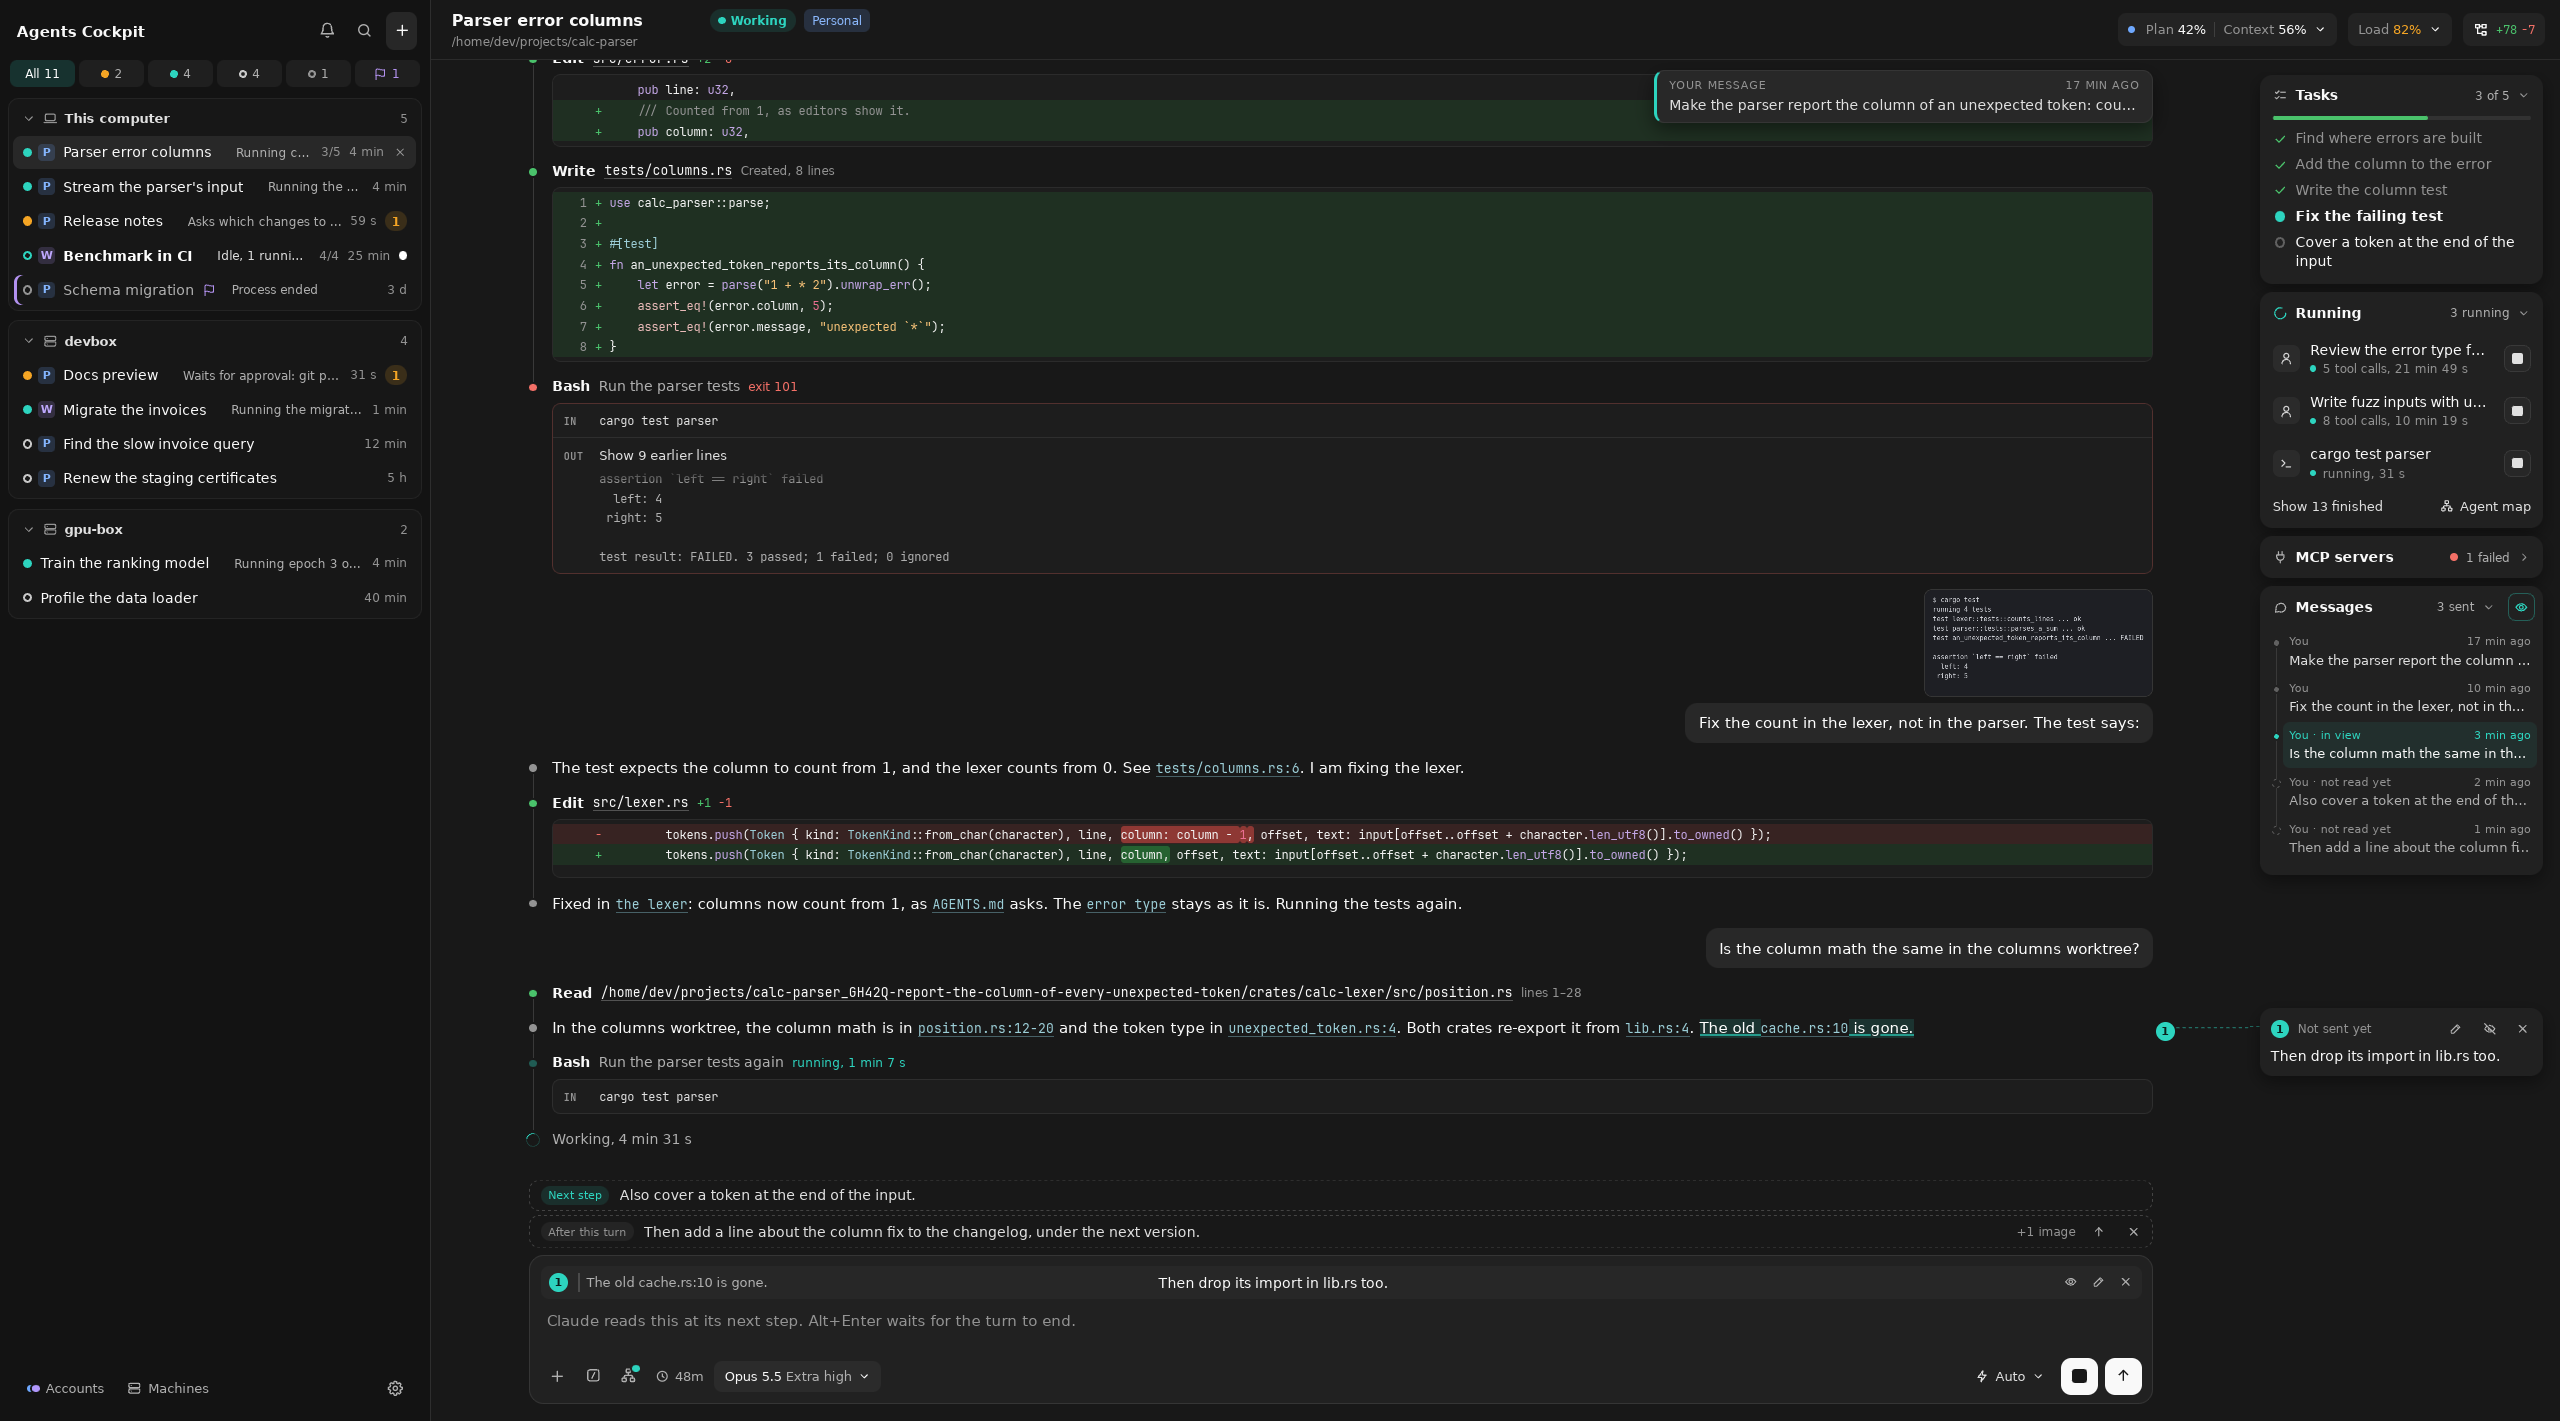
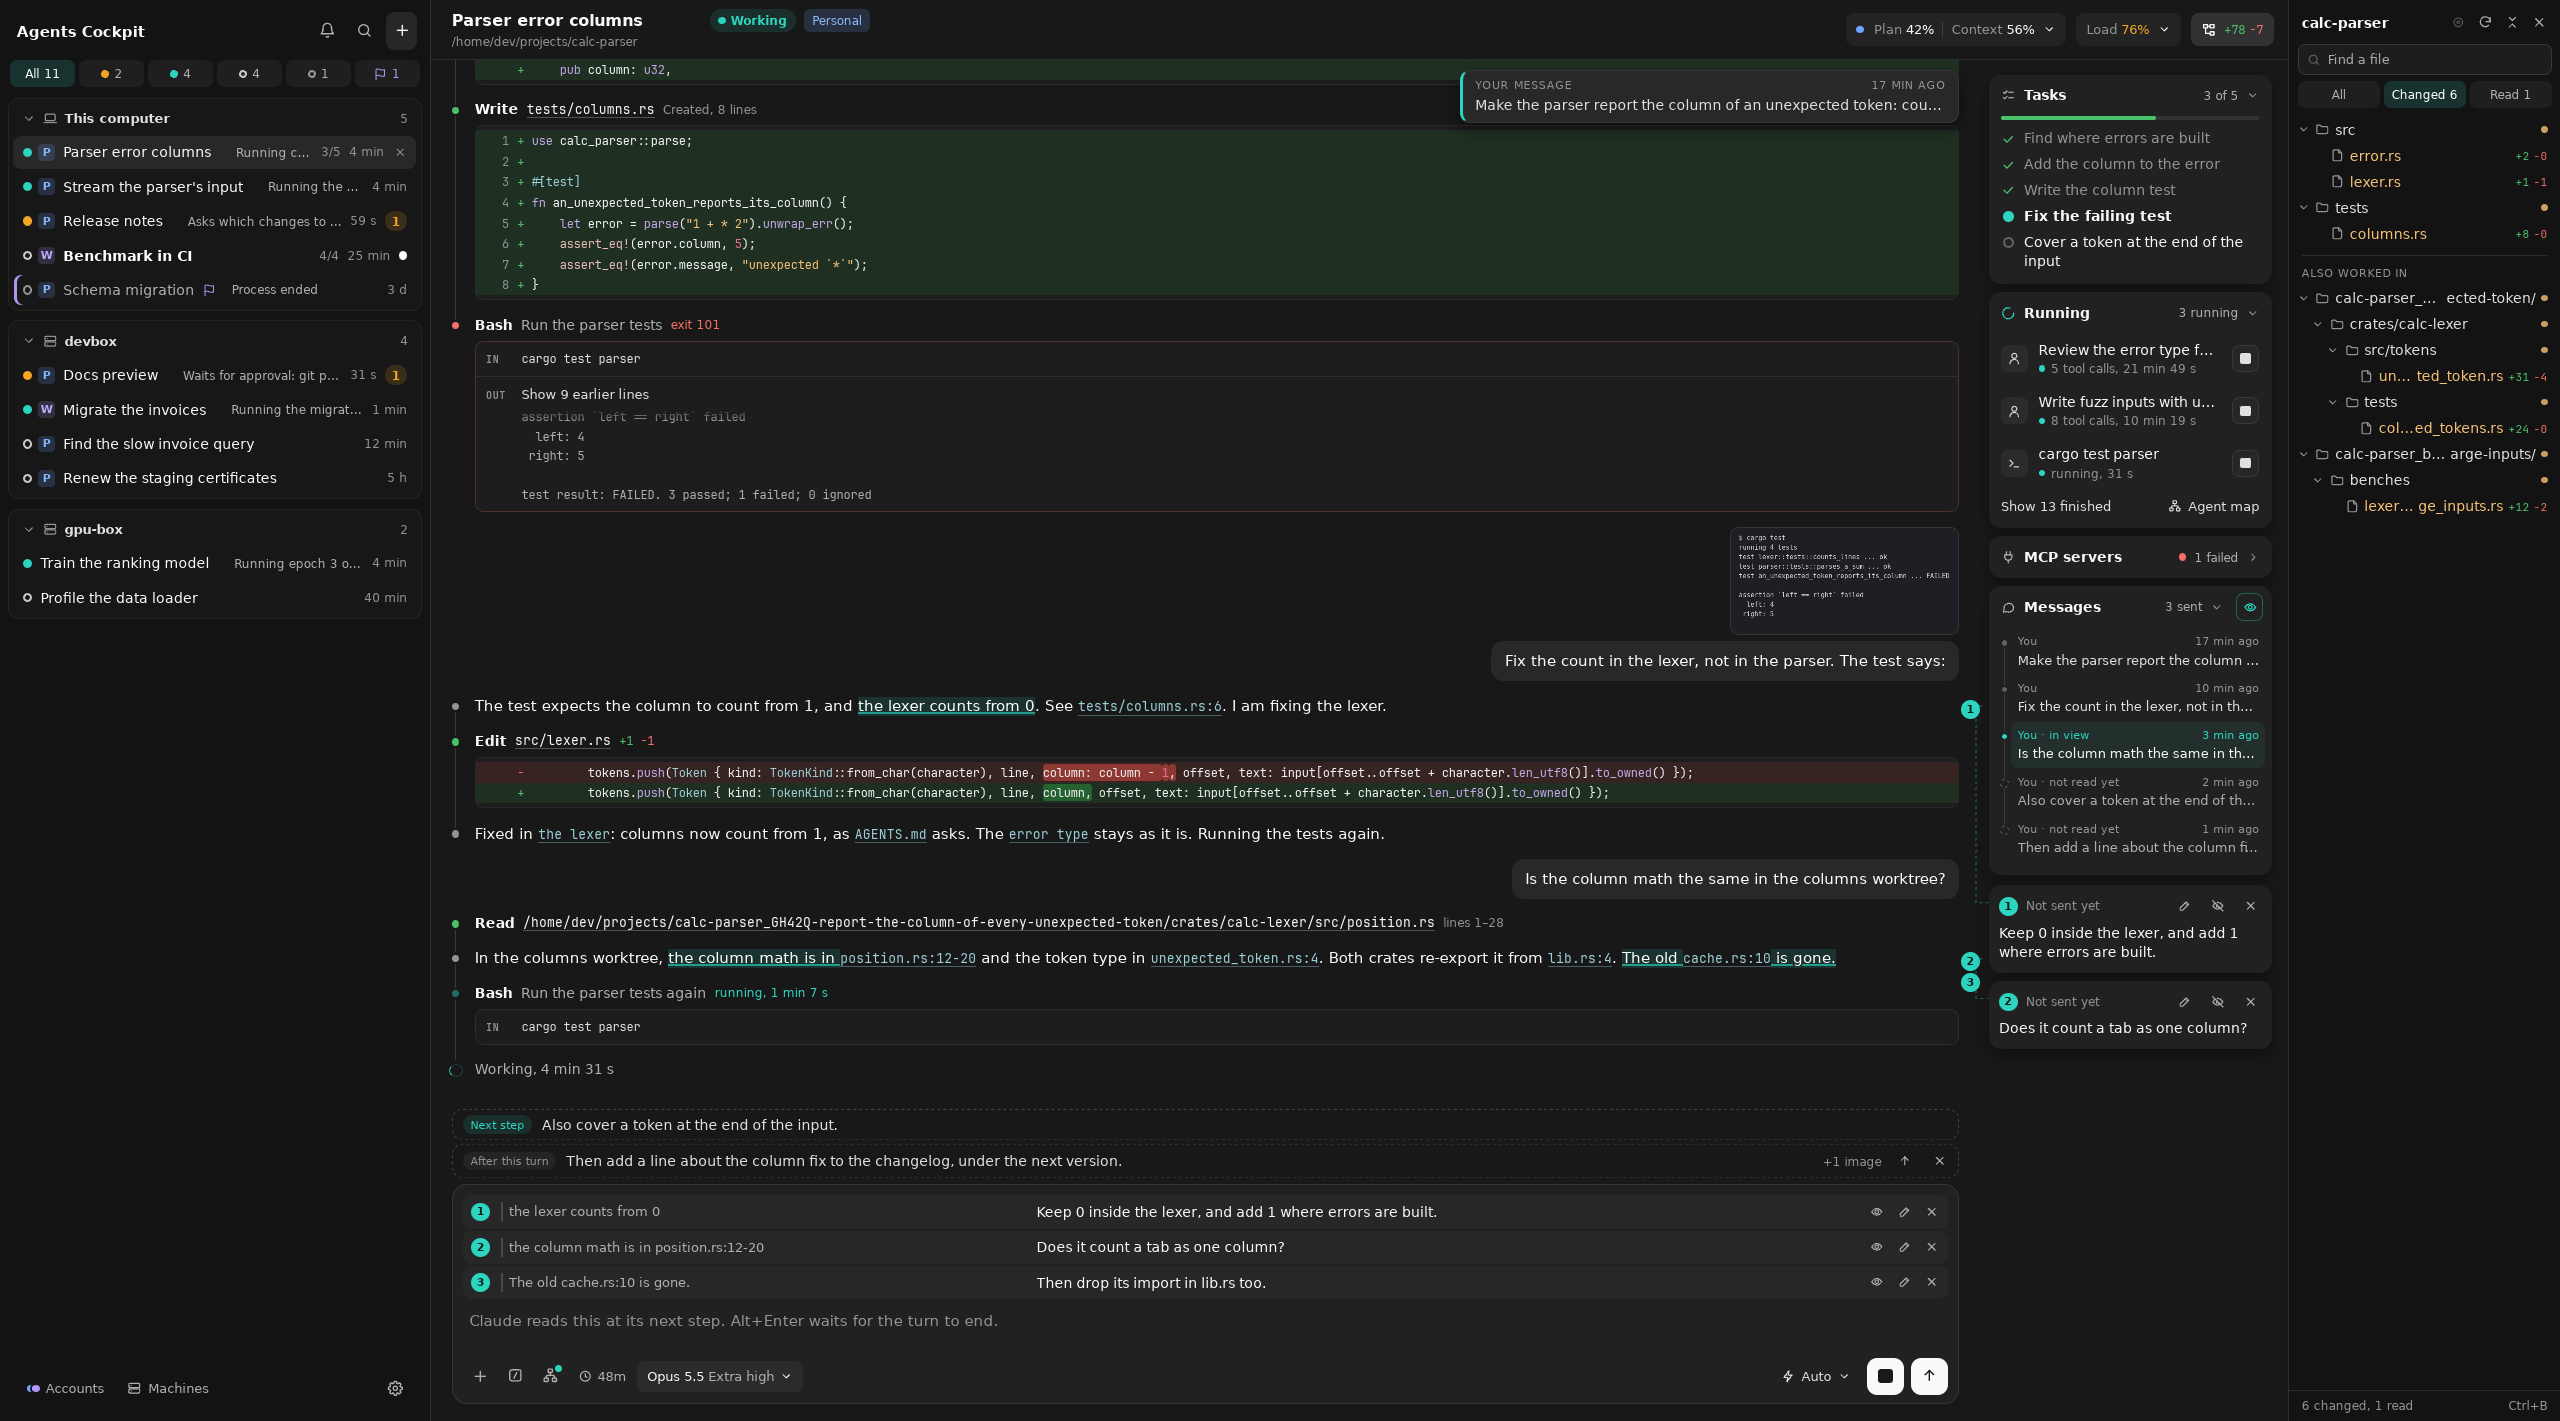
Open the files pane in the showcase, quote three passages in the demo's draft, and leave the benchmark nothing running

diff --git a/crates/cockpit_desktop/src/demo.rs b/crates/cockpit_desktop/src/demo.rs
@@ -34,7 +34,7 @@ use crate::state::daemon_update::{
 use crate::state::no_daemon::{self, Absence};
 use crate::state::{
     AgentEntry, AppState, ConnectionState, Dialog, Drafts, Loadable, MachineState, Utf16Offset,
-    file_edits, quotes, sending,
+    file_edits, file_tree, quotes, sending,
 };
 use crate::update_script::APP_VERSION;
 
@@ -58,6 +58,8 @@ const SHOWCASE_LEFT_OUT: [u32; 3] = [SIGN_IN_AGENT, MAP_AGENT, PLAN_AGENT];
 const APPROVAL_AGENT: u32 = 3;
 /// The agent that waits for its plan to be approved.
 const PLAN_AGENT: u32 = 4;
+/// The agent that finished its benchmark while the user looked elsewhere.
+const BENCHMARK_AGENT: u32 = 5;
 
 const UPDATE_MACHINE: &str = "build-box";
 /// A made-up commit.
@@ -92,7 +94,7 @@ const RUNNING_CALLS_FOR: Duration = Duration::from_secs(48);
 /// A second Claude account, which the service's agents and the platform's past sessions use.
 const WORK_ACCOUNT: u32 = 1;
 /// The agents of the work account.
-const WORK_AGENTS: [u32; 2] = [4, 5];
+const WORK_AGENTS: [u32; 2] = [PLAN_AGENT, BENCHMARK_AGENT];
 /// An account that bills the daemon's API key, which the map's agent uses.
 const LAB_ACCOUNT: u32 = 2;
 /// An account no one signed in to yet, whose agent waits for the sign-in.
@@ -108,10 +110,41 @@ const SERVER: MachineId = MachineId::new(1);
 const SERVER_HOST: &str = "devbox";
 const SERVER_FOLDER: &str = "/home/dev/services/invoices";
 
-/// The selected agent's answer that the demo's draft quotes.
+/// The selected agent's explanation of the failing test, and its last answer.
+const COUNT_ITEM: u32 = 15;
+const COUNT_ANSWER: &str = "The test expects the column to count from 1, and the lexer counts from 0. See `tests/columns.rs:6`. I am fixing the lexer.";
 const LOOKUP_ITEM: u32 = 20;
-const QUOTED_PASSAGE: &str = "The old cache.rs:10 is gone.";
-const QUOTE_COMMENT: &str = "Then drop its import in lib.rs too.";
+
+/// A passage of the selected agent's answers that the demo's draft quotes, with its comment.
+struct DemoQuote {
+    item: u32,
+    /// The text of the answer the passage is in.
+    answer: &'static str,
+    passage: &'static str,
+    comment: &'static str,
+}
+
+/// The demo draft's quotes, in the chat's order.
+const DEMO_QUOTES: [DemoQuote; 3] = [
+    DemoQuote {
+        item: COUNT_ITEM,
+        answer: COUNT_ANSWER,
+        passage: "the lexer counts from 0",
+        comment: "Keep 0 inside the lexer, and add 1 where errors are built.",
+    },
+    DemoQuote {
+        item: LOOKUP_ITEM,
+        answer: LOOKUP_ANSWER,
+        passage: "the column math is in position.rs:12-20",
+        comment: "Does it count a tab as one column?",
+    },
+    DemoQuote {
+        item: LOOKUP_ITEM,
+        answer: LOOKUP_ANSWER,
+        passage: "The old cache.rs:10 is gone.",
+        comment: "Then drop its import in lib.rs too.",
+    },
+];
 
 /// How often the live agent adds or finishes an entry.
 pub const LIVE_TICK: Duration = Duration::from_millis(1500);
@@ -458,7 +491,7 @@ const SIDEBAR_ORDER: [u32; 9] = [
     LIVE_AGENT,
     PLAN_AGENT,
     2,
-    5,
+    BENCHMARK_AGENT,
     APPROVAL_AGENT,
     6,
 ];
@@ -683,7 +716,7 @@ pub fn state(daemon: DaemonLabel) -> AppState {
     state.machines.this.other_plan_usage =
         BTreeMap::from([(AccountId::new(WORK_ACCOUNT), work_plan_usage(now))]);
     state.ui.selected = Some(AgentId::new(1));
-    state.ui.unread.insert(AgentId::new(5));
+    state.ui.unread.insert(AgentId::new(BENCHMARK_AGENT));
     add_server(&mut state, now);
     state
 }
@@ -866,28 +899,36 @@ pub fn showcase(state: &mut AppState) {
         ),
     ];
     insert_server(state, SystemTime::now(), GPU_SERVER, GPU_HOST, agents);
+    // Finished and unread, with nothing left running in the background.
+    if let Some(entry) = state.agents.get_mut(&AgentId::new(BENCHMARK_AGENT)) {
+        entry.summary.background_running = 0;
+    }
+    // As the header's changes chip does: on the files the agent changed.
+    file_tree::toggle_from_changes(state, AgentId::new(1));
 }
 
-/// The demo's drafts: a reply under way to the selected agent, which quotes a passage of its
-/// last answer with a comment beside it.
+/// The demo's drafts: a reply under way to the selected agent, which quotes passages of its
+/// answers with a comment beside each.
 pub fn drafts() -> Drafts {
     let mut drafts = Drafts::default();
-    let Some((before, _)) = LOOKUP_ANSWER.split_once(QUOTED_PASSAGE) else {
-        return drafts;
-    };
-    let passage = quotes::Passage {
-        anchor: quotes::QuoteAnchor {
-            item: ItemId::new(LOOKUP_ITEM),
-            start: Utf16Offset::end_of(before),
-            end: Utf16Offset::end_of(&format!("{before}{QUOTED_PASSAGE}")),
-        },
-        raw: QUOTED_PASSAGE.to_owned(),
-        text: QUOTED_PASSAGE.to_owned(),
-        code: false,
-    };
-    quotes::start(&mut drafts, AgentId::new(1), passage);
-    quotes::type_comment(&mut drafts, QUOTE_COMMENT.to_owned());
-    quotes::commit(&mut drafts, CommentPlacement::Beside);
+    for quote in DEMO_QUOTES {
+        let Some((before, _)) = quote.answer.split_once(quote.passage) else {
+            continue;
+        };
+        let passage = quotes::Passage {
+            anchor: quotes::QuoteAnchor {
+                item: ItemId::new(quote.item),
+                start: Utf16Offset::end_of(before),
+                end: Utf16Offset::end_of(&format!("{before}{}", quote.passage)),
+            },
+            raw: quote.passage.to_owned(),
+            text: quote.passage.to_owned(),
+            code: false,
+        };
+        quotes::start(&mut drafts, AgentId::new(1), passage);
+        quotes::type_comment(&mut drafts, quote.comment.to_owned());
+        quotes::commit(&mut drafts, CommentPlacement::Beside);
+    }
     drafts
 }
 
@@ -2077,13 +2118,7 @@ fn parser_agent(now: SystemTime) -> Sample {
                 FAILING_TEST_PNG,
             ),
         ),
-        item(
-            15,
-            None,
-            text(
-                "The test expects the column to count from 1, and the lexer counts from 0. See `tests/columns.rs:6`. I am fixing the lexer.",
-            ),
-        ),
+        item(COUNT_ITEM, None, text(COUNT_ANSWER)),
         item(
             16,
             None,
@@ -2375,7 +2410,7 @@ fn plan_agent(now: SystemTime) -> Sample {
 fn benchmark_agent(now: SystemTime) -> Sample {
     let mut summary = summary(
         SummaryParts {
-            id: 5,
+            id: BENCHMARK_AGENT,
             title: "⏱\u{fe0f} Benchmark in CI",
             folder: SERVICE_FOLDER,
             status: AgentStatus::Idle,
@@ -3885,21 +3920,35 @@ pub struct ParseError {
     }
 
     #[test]
-    fn the_draft_quotes_a_passage_of_the_lookup_answer_with_a_comment() {
+    fn the_draft_quotes_each_passage_of_the_answers_with_its_comment() {
         let drafts = drafts();
 
         let draft = drafts.draft(AgentId::new(1)).unwrap();
-        let [quote] = draft.quotes.as_slice() else {
-            panic!("one quote, not {:?}", draft.quotes);
-        };
-        let anchor = quote.passage.anchor;
-        let quoted = LOOKUP_ANSWER
-            .get(anchor.start.byte_offset(LOOKUP_ANSWER)..anchor.end.byte_offset(LOOKUP_ANSWER));
+        let shown: Vec<(ItemId, Option<&str>, &str)> = draft
+            .quotes
+            .iter()
+            .zip(DEMO_QUOTES)
+            .map(|(quote, demo)| {
+                let anchor = quote.passage.anchor;
+                let quoted = demo.answer.get(
+                    anchor.start.byte_offset(demo.answer)..anchor.end.byte_offset(demo.answer),
+                );
+                (anchor.item, quoted, quote.comment.as_str())
+            })
+            .collect();
+        let expected: Vec<(ItemId, Option<&str>, &str)> = DEMO_QUOTES
+            .iter()
+            .map(|demo| (ItemId::new(demo.item), Some(demo.passage), demo.comment))
+            .collect();
 
-        assert_eq!(anchor.item, ItemId::new(LOOKUP_ITEM));
-        assert_eq!(quoted, Some(QUOTED_PASSAGE));
-        assert_eq!(quote.comment, QUOTE_COMMENT);
-        assert_eq!(quote.placement, CommentPlacement::Beside);
+        assert_eq!(draft.quotes.len(), DEMO_QUOTES.len());
+        assert_eq!(shown, expected);
+        assert!(
+            draft
+                .quotes
+                .iter()
+                .all(|quote| quote.placement == CommentPlacement::Beside)
+        );
         assert!(drafts.quote_editor.is_none());
     }
 
